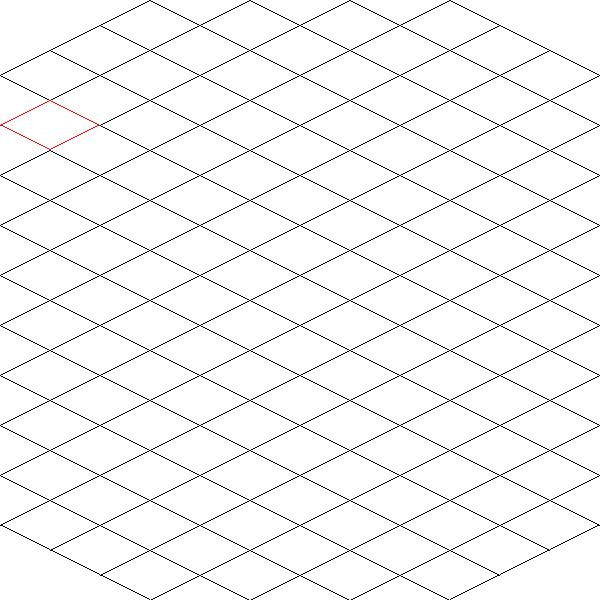
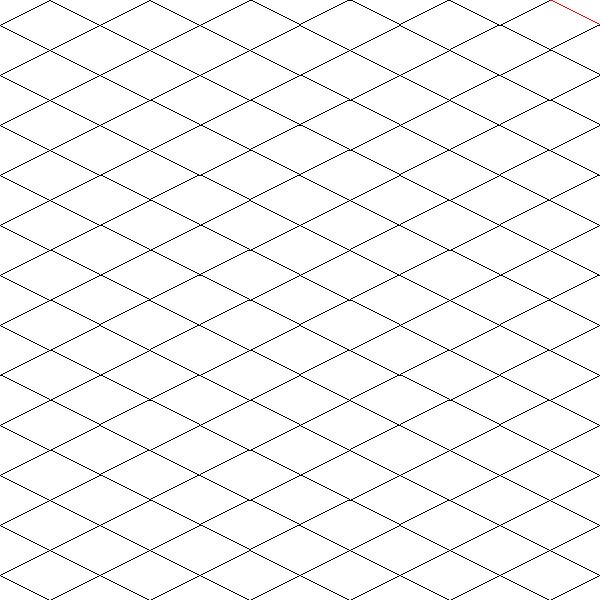
Fixed some small bugs

diff --git a/map_render.py b/map_render.py
@@ -4,15 +4,45 @@ from sprite import SpriteDrawer, Sprite
 from tiles import Tile
 
 class MapRenderer:
-    # TO-DO: Add map 2d list with data on the tiles
     @staticmethod
     def render(map, screenSize, spriteDrawer, tileSize):
-        # rows, cols = mapSize
         rows, cols = len(map), len(map[0])
         tileWidth, tileHeight = tileSize[0], tileSize[1]
 
         screenWidth = screenSize[0]
         screenHeight = screenSize[1]
+
+        startX,startY = MapRenderer.getMapStartLocation(screenSize,tileSize, rows)
+
+        for row in range(rows):
+            for col in range(cols):
+                tile = map[row,col].getSprite()
+
+                screenX = (row - col) * tileWidth//2;
+                screenY = (row + col) * tileHeight//2;
+
+                if -tileWidth<=startX + screenX<=screenWidth + tileWidth and -tileHeight<=startY + screenY<=screenHeight + tileHeight:
+                    spriteDrawer.drawSprite(tile, startX + screenX, startY + screenY)
+    
+    def generateRepeatMap(self, sprite, size):
+        rows = size[0]
+        cols = size[1]
+        mapList = []
+
+        for row in range(rows):
+            for col in range(cols):
+                mapList.append(Tile(self,sprite, row, col))
+        map = np.array(mapList)
+        map = map.reshape(rows,cols)
+
+        mapList = None
+        return map
+    
+    @staticmethod
+    def getMapStartLocation(screenSize, tileSize, mapRows):
+        tileWidth, tileHeight = tileSize
+
+        screenWidth, screenHeight = screenSize
 
         middleX = screenWidth//2
         middleY = screenHeight//2
@@ -22,30 +52,7 @@ class MapRenderer:
         # Adding/subtracting tileWidth//2 and tileHeight//2 because program draws tiles from edge, not center
         startX = middleX-((xEdgeTilesToCenter//2)*tileWidth) + tileWidth//2
 
-        startY = middleY-((rows//2)*tileHeight) - tileHeight//2
+        startY = middleY-((mapRows//2)*tileHeight) - tileHeight//2
+        # assert(startY >=0)
 
-        for row in range(rows):
-            # if row*tileHeight>= screenHeight: continue
-            for col in range(cols):
-                tile = map[row,col].getSprite()
-
-                screenX = (row - col) * tileWidth//2;
-                screenY = (row + col) * tileHeight//2;
-                if -tileWidth<=startX + screenX<=screenWidth + tileWidth and -tileHeight<=startY + screenY<=screenHeight + tileHeight:
-                    spriteDrawer.drawSprite(tile, startX + screenX, startY + screenY)
-    
-    @staticmethod
-    def generateRepeatMap(sprite, size):
-        rows = size[0]
-        cols = size[1]
-        mapList = []
-
-        for row in range(rows):
-            for col in range(cols):
-                mapList.append(Tile(sprite, row, col))
-                # map = np.repeat(tile, rows*cols)
-        map = np.array(mapList)
-        map = map.reshape(rows,cols)
-
-        mapList = None
-        return map
+        return startX,startY

diff --git a/Main.py b/Main.py
@@ -4,6 +4,7 @@ import numpy as np
 from sprite import SpriteDrawer, Sprite
 from map_render import MapRenderer
 from tiles import Tile
+import math
 
 
 # Go in numpy and make it so only the part of the map you can see if being rendered at one time 
@@ -18,6 +19,8 @@ def onAppStart(app):
     app.img = loadScreen(app, None)
     app.colors = [(100,0,0), (0,100,0), (0,0,100)]
     app.map = np.array([])
+    app.prevHoveredTileLoc = None
+    app.mapRenderer = MapRenderer()
 
     app.ignorableColor = (255,255,255)
     app.tileImage = Image.open("sprites/TileShape.png")
@@ -26,6 +29,18 @@ def onAppStart(app):
 def redrawAll(app):
     drawImage("screen.jpg", 0, 0)
 
+def onMouseMove(app, mouseX,mouseY):
+    mapLoc = getTile(mouseX, mouseY, (app.width,app.height), app.map)
+
+    if mapLoc != app.prevHoveredTileLoc and app.prevHoveredTileLoc != None: 
+        Tile.changeHighlight(app.map[app.prevHoveredTileLoc[0], app.prevHoveredTileLoc[1]], app.map, 
+                             app.mapRenderer, (app.width,app.height),app.spriteDrawer)
+        app.prevHoveredTileLoc = None
+    if mapLoc != None and mapLoc != app.prevHoveredTileLoc:
+        app.prevHoveredTileLoc = mapLoc
+        Tile.changeHighlight(app.map[app.prevHoveredTileLoc[0], app.prevHoveredTileLoc[1]], app.map, 
+                             app.mapRenderer, (app.width,app.height), app.spriteDrawer)
+
 def loadScreen(app, img):
     if img == None:
         img = Image.new(mode = "RGB", size = (app.width,app.height), color = app.imageColor)
@@ -33,16 +48,32 @@ def loadScreen(app, img):
 
     return img
 
+def getTile(mouseX, mouseY, screenSize, map):
+    if map.size == 0: return None
+    else:
+        tile0 = map[0,0]
+        tileWidth, tileHeight = tile0.getSize()
+        startX,startY = MapRenderer.getMapStartLocation(screenSize, tile0.getSize(), len(map))
+        # assert(startY>=0)
+
+        startX += tileWidth
+        startY -= (-1 * tileHeight)//2
+        row = math.floor((mouseX - startX)/tileWidth + (mouseY - startY)/tileHeight) + 1
+        col = math.floor((mouseY - startY)/tileHeight - (mouseX - startX)/tileWidth)
+
+        if 0<=row<len(map) and 0<=col<len(map[0]): return row,col
+        else: return None
+    
 def onKeyPress(app,key):
     if key.isdigit() and 1 <=int(key) <= 3:
         tileSprite = Sprite(app.tileImage)
 
-        app.map = MapRenderer.generateRepeatMap(tileSprite, (15,15)) 
+        app.map = MapRenderer.generateRepeatMap(app.mapRenderer, tileSprite, (20,20)) 
         MapRenderer.render(app.map, (app.width,app.height), app.spriteDrawer, tileSprite.getSize())
     if key == 'h':
         if app.map.size != 0:
-            t = app.map[2,2]
+            t = app.map[0,0]
             Tile.changeTileBorder(t, [255,0,0])
-            Tile.redrawTile(t, app.spriteDrawer)
+            Tile.redrawTile(t, app.spriteDrawer, (app.width,app.height), app.map, app.mapRenderer)
 runApp()
 

diff --git a/tiles.py b/tiles.py
@@ -2,16 +2,19 @@ from PIL import Image
 import numpy as np
 from sprite import Sprite
 
-class Tile:
+class Tile():
     # Making references to default tileSprites so that they are cached unless they are modified
     img1 = Image.open("sprites/TileShape.png")
     defaultSprites = {'empty' : Sprite(img1)}
     defaultBorderColor = [0,0,0]
+    highlightColor = [255,0,0]
 
-    def __init__(self, sprite, x, y):
+    def __init__(self, mapRenderer,sprite, x, y):
         self.sprite = sprite
+        self.mapRenderer = mapRenderer
         self.x = x # col in map
         self.y = y # row in map
+        self.isHighlighted = False
 
     # Changes sprite without making an alias
     def changeSprite(self, newSprite):
@@ -21,7 +24,6 @@ class Tile:
         return self.sprite
     
     def getSize(self):
-        print(self.sprite.getSize())
         return self.sprite.getSize()
     
     @staticmethod
@@ -46,15 +48,34 @@ class Tile:
         else: return None
 
     @staticmethod
-    def redrawTile(tile, spriteDrawer):
-        screenX, screenY = Tile.mapToScreenCords(tile.getSize(), tile.x, tile.y)
+    def redrawTile(tile, spriteDrawer, screenSize, map, mapRenderer):
+        screenX, screenY = Tile.mapToScreenCords((tile.x, tile.y), tile.getSize(),screenSize, map, mapRenderer)
+        # print(screenX,screenY)
         spriteDrawer.drawSprite(tile.getSprite(), screenX, screenY)
 
     @staticmethod
-    def mapToScreenCords(tileSize, mapX, mapY):
+    def mapToScreenCords(tileMapLoc, tileSize, screenSize, map, mapRenderer):
         tileWidth = tileSize[0]
         tileHeight = tileSize[1]
-        screenX = (mapY - mapX) * tileWidth//2;
-        screenY = (mapY + mapX) * tileHeight//2;
+
+        mapX,mapY = tileMapLoc
+        #!!!!!!!!!!!!!!!!!!!!!!!!!!!!!!!!!!!!!!!!
+        startX, startY = mapRenderer.getMapStartLocation(screenSize, tileSize, len(map))
+        # assert(startY >=0)
+        print(startX,startY)
+        # print(startX,startY)
+
+        screenX = (mapX - mapY) * tileWidth//2 + startX
+        screenY = (mapX + mapY) * tileHeight//2 + startY
 
         return screenX, screenY
+    
+    @staticmethod
+    def changeHighlight(tile, map, mapRenderer, screenSize, spriteDrawer):
+        color = []
+        if tile.isHighlighted: color = Tile.defaultBorderColor
+        else: color = Tile.highlightColor    
+
+        tile.isHighlighted = not tile.isHighlighted
+        Tile.changeTileBorder(tile, color)
+        Tile.redrawTile(tile, spriteDrawer, screenSize, map, mapRenderer)
